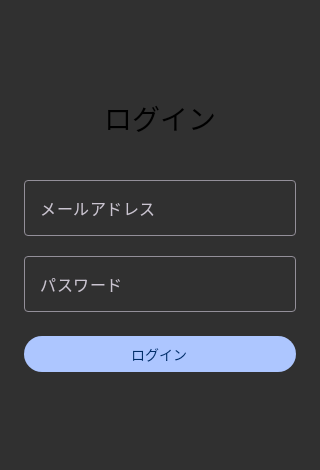
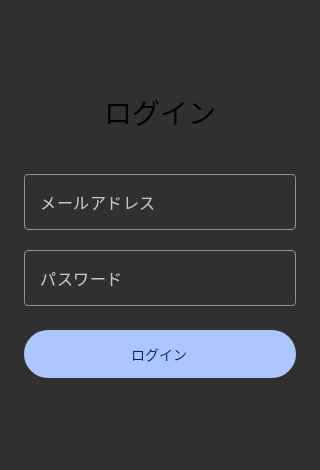
fix: PrimaryButtonのheightを48dpに戻し、ベースライン再撮影
前回のPRマージで意図せず36dpになっていたのを修正。

diff --git a/app/src/main/java/com/example/screenshottest/ui/components/PrimaryButton.kt b/app/src/main/java/com/example/screenshottest/ui/components/PrimaryButton.kt
@@ -27,7 +27,7 @@ fun PrimaryButton(
         onClick = onClick,
         modifier = modifier
             .fillMaxWidth()
-            .height(36.dp),
+            .height(48.dp),
         enabled = enabled,
         colors = ButtonDefaults.buttonColors(
             containerColor = MaterialTheme.colorScheme.primary,
